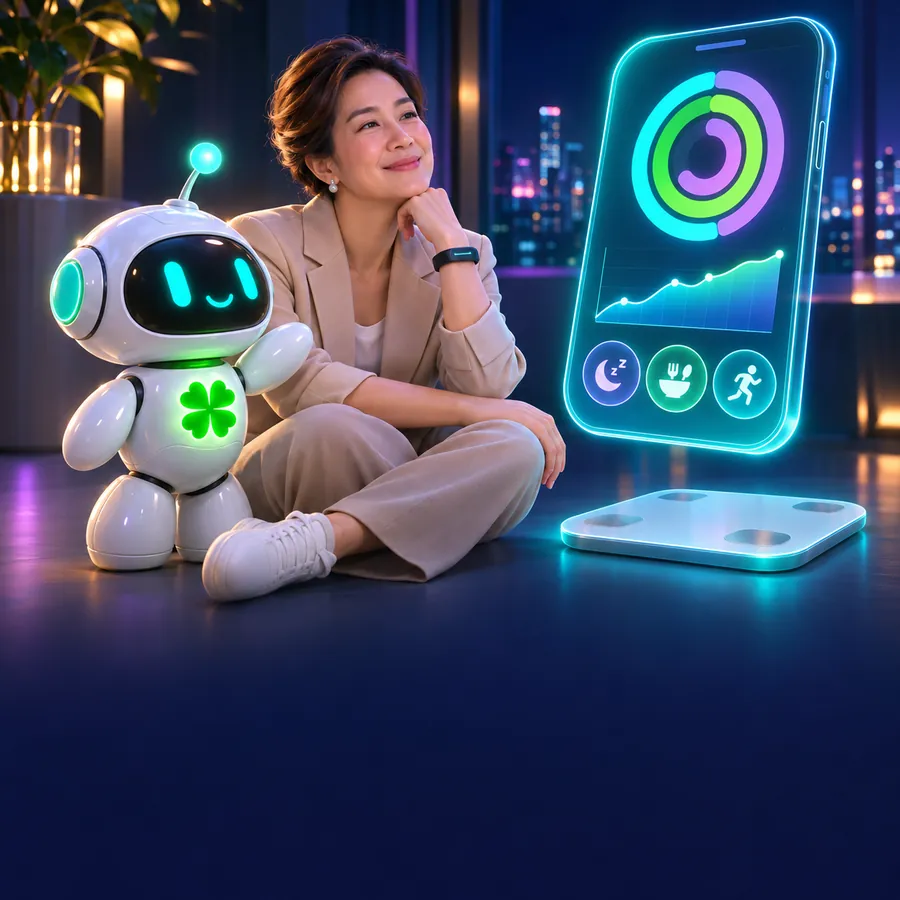
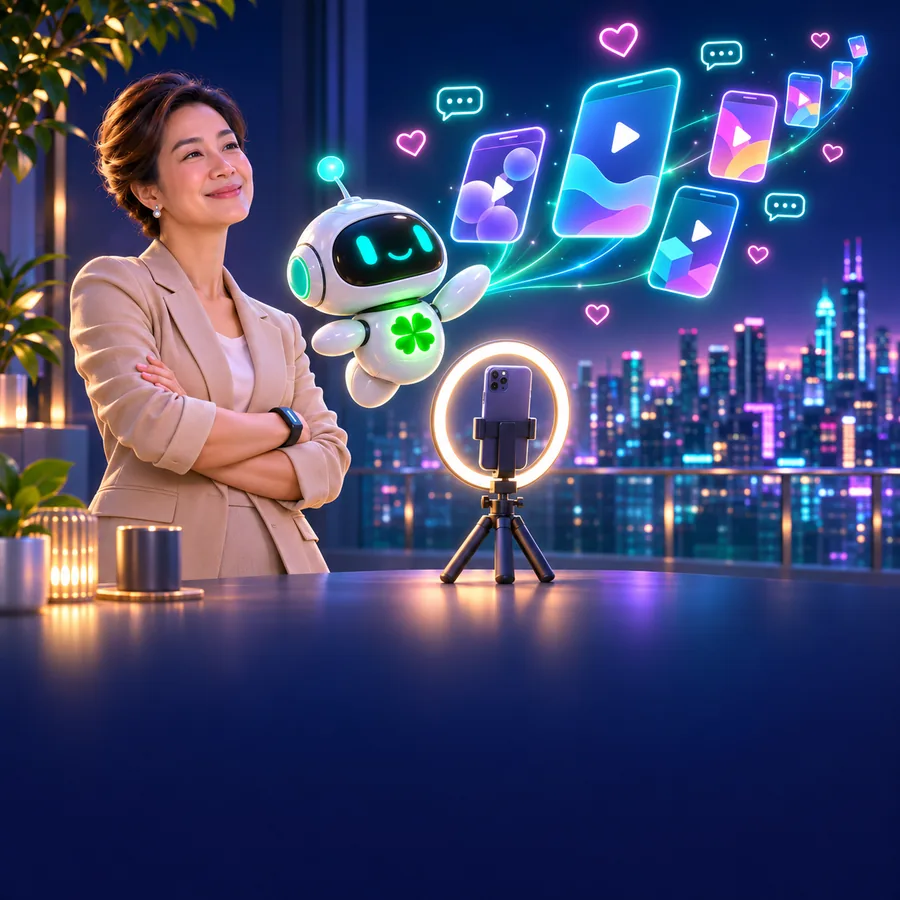
X-VISOR QUEST 3.0 · Clip Edition: cover art, tighter play screen, fixes from playtest
- cover and share image generated for the game (same host and companion robot)
- sheets hide properly once closed; star rating no longer picks up the progress-bar style
- all four moves fit on a phone screen; the screen stays where the thumb is between moves

diff --git a/xvisor/play/game.css b/xvisor/play/game.css
@@ -55,7 +55,7 @@ p{margin:0}
 @keyframes coverIn{from{transform:scale(1.12);opacity:0}}
 .start-copy{display:grid;gap:14px;margin-top:-64px;position:relative}
 .start h1{font-size:clamp(46px,13vw,68px);font-weight:700}
-.lead{font-size:18.5px;color:#d6e2f1}
+.lead{font-size:18.5px;color:#d6e2f1;text-wrap:pretty}
 .how3{list-style:none;margin:2px 0 4px;padding:0;display:grid;gap:8px}
 .how3 li{display:flex;align-items:center;gap:12px;font-weight:600;color:#e9f1fb}
 .how3 b{display:grid;place-items:center;width:44px;height:44px;border-radius:14px;background:rgba(75,232,255,.12);font-size:22px;flex:none}
@@ -74,13 +74,13 @@ p{margin:0}
 .money{appearance:none;cursor:pointer;border:1px solid rgba(230,194,122,.45);background:rgba(230,194,122,.08);color:#fff;border-radius:16px;padding:6px 14px;min-height:48px;text-align:right;display:grid}
 .money small{font-size:11.5px;color:var(--gold-b);line-height:1.2}.money b{font-size:19px;line-height:1.2}
 
-.buddy{display:grid;grid-template-columns:84px 1fr;align-items:end;gap:6px;min-height:104px}
-.bot{width:84px;height:auto;filter:drop-shadow(0 10px 16px rgba(0,0,0,.45));animation:bob 3s ease-in-out infinite;transform-origin:50% 100%}
+.buddy{display:grid;grid-template-columns:72px 1fr;align-items:end;gap:6px;min-height:88px}
+.bot{width:72px;height:auto;filter:drop-shadow(0 10px 16px rgba(0,0,0,.45));animation:bob 3s ease-in-out infinite;transform-origin:50% 100%}
 @keyframes bob{50%{transform:translateY(-7px) rotate(-2deg)}}
 .say{align-self:center;background:#fff;color:#06131c;font-weight:600;font-size:16.5px;line-height:1.45;padding:12px 15px;border-radius:18px 18px 18px 5px;box-shadow:0 10px 26px rgba(0,0,0,.35),0 0 26px rgba(75,232,255,.3);animation:pop .4s cubic-bezier(.3,1.6,.5,1)}
 @keyframes pop{from{transform:scale(.85);opacity:0}}
 
-.stats3{display:grid;grid-template-columns:1.5fr 1fr 1fr;gap:8px}
+.stats3{display:grid;grid-template-columns:1.7fr .9fr .9fr;gap:8px}
 .habit{display:flex;align-items:center;gap:10px;padding:10px 12px}
 .ring{position:relative;width:58px;height:58px;flex:none;display:grid;place-items:center}
 .ring svg{position:absolute;inset:0;transform:rotate(-90deg)}
@@ -90,14 +90,14 @@ p{margin:0}
 .ring.good .fill{stroke:var(--green)}.ring.low .fill{stroke:var(--warn)}
 .ring b{font-size:19px;color:#fff}
 .habit-txt{display:grid;gap:5px;min-width:0}
-.habit-txt b{font-size:14.5px;color:#fff;line-height:1.2}
+.habit-txt b{font-size:14px;color:#fff;line-height:1.2;white-space:nowrap}
 .pill-row{display:flex;gap:5px}
 .pill-row i{position:relative;font-style:normal;font-size:11.5px;color:var(--muted);padding-top:8px;flex:1;text-align:center}
 .pill-row i::before{content:"";position:absolute;left:0;right:0;top:0;height:4px;border-radius:2px;background:rgba(255,255,255,.12)}
 .pill-row u{position:absolute;left:0;top:0;height:4px;width:var(--v);border-radius:2px;background:var(--green)}
 .pill-row i.low{color:var(--warn)}.pill-row i.low u{background:var(--warn)}
 .chip{display:grid;align-content:center;padding:10px 12px;min-width:0}
-.chip small{font-size:12px;color:var(--muted);line-height:1.25}
+.chip small{font-size:11.5px;color:var(--muted);line-height:1.25}
 .chip b{font-size:26px;line-height:1.15;color:#fff}
 .chip em{font-style:normal;font-size:14px;color:var(--green);margin-left:4px}
 .chip.hot{background:rgba(255,111,216,.12)}.chip.hot b{color:#ffd0f1}
@@ -107,11 +107,11 @@ p{margin:0}
 .shelf-head button{appearance:none;border:0;background:none;color:var(--gold-b);font:600 14.5px var(--font);min-height:44px;cursor:pointer;padding:0 0 0 12px}
 .shelf{list-style:none;margin:0 -16px;padding:2px 16px 8px;display:flex;gap:10px;overflow-x:auto;scroll-snap-type:x proximity;scrollbar-width:none}
 .shelf::-webkit-scrollbar{display:none}
-.clip{flex:none;width:92px;aspect-ratio:9/15;border-radius:16px;padding:9px 8px;display:grid;align-content:space-between;justify-items:start;scroll-snap-align:start;position:relative;overflow:hidden;box-shadow:0 0 0 1px rgba(255,255,255,.16) inset,0 14px 24px -14px rgba(0,0,0,.9)}
+.clip{flex:none;width:84px;aspect-ratio:9/12.5;border-radius:16px;padding:8px 8px;display:grid;align-content:space-between;justify-items:start;scroll-snap-align:start;position:relative;overflow:hidden;box-shadow:0 0 0 1px rgba(255,255,255,.16) inset,0 14px 24px -14px rgba(0,0,0,.9)}
 .clip.p0{background:linear-gradient(160deg,#1c4a7a,#0c1a33)}.clip.p1{background:linear-gradient(160deg,#1f6a5a,#0b2028)}
 .clip.p2{background:linear-gradient(160deg,#5a3a8f,#17122f)}.clip.p3{background:linear-gradient(160deg,#7a4a2a,#22140f)}
 .clip.p4{background:linear-gradient(160deg,#7a2f66,#200f24)}
-.clip-ico{font-size:26px;line-height:1}
+.clip-ico{font-size:22px;line-height:1}
 .clip-topic{font-size:12.5px;font-weight:600;color:#fff;line-height:1.25}
 .clip-views{font-size:12px;color:#dfe9f7}
 .stars{color:var(--gold-b);font-size:12px;letter-spacing:1px;white-space:nowrap}
@@ -130,19 +130,21 @@ p{margin:0}
 .moves i.on{background:linear-gradient(90deg,var(--cyan),var(--green));box-shadow:0 0 10px rgba(75,232,255,.6)}
 
 .acts{display:grid;grid-template-columns:1fr 1fr;gap:10px}
-.act{appearance:none;border:0;cursor:pointer;color:#fff;text-align:left;display:grid;gap:8px;padding:14px;min-height:112px;align-content:start;transition:transform .15s,background .2s}
+.act{appearance:none;border:0;cursor:pointer;color:#fff;text-align:left;display:grid;grid-template-columns:44px 1fr;gap:10px;padding:12px;min-height:76px;align-items:center;transition:transform .15s,background .2s}
 .act:active{transform:scale(.96)}
 .act:hover{background:rgba(255,255,255,.09)}
-.act-ico{display:grid;place-items:center;width:46px;height:46px;border-radius:15px;background:rgba(75,232,255,.13);font-size:24px}
+.act-ico{display:grid;place-items:center;width:44px;height:44px;border-radius:14px;background:rgba(75,232,255,.13);font-size:24px}
 .act-txt{display:grid;gap:1px}
-.act b{font-size:17.5px;line-height:1.25}.act small{font-size:13.5px;color:var(--muted);line-height:1.35}
-.act em{position:absolute;top:10px;right:10px;font-style:normal;font-weight:700;font-size:13px;color:#1a1204;background:linear-gradient(135deg,var(--gold-a),var(--gold-b));padding:3px 9px;border-radius:999px}
+.act b{font-size:16.5px;line-height:1.25}.act small{font-size:13px;color:var(--muted);line-height:1.3}
+.act em{position:absolute;top:6px;left:42px;font-style:normal;font-weight:700;font-size:13px;color:#1a1204;background:linear-gradient(135deg,var(--gold-a),var(--gold-b));padding:3px 9px;border-radius:999px}
 .act.off{opacity:.5}
-.act[data-act="shop"]{grid-column:1 / -1;grid-template-columns:46px 1fr;min-height:0;align-items:center}
+.act[data-act="shop"]{grid-column:1 / -1}
 .acts.done .act{opacity:.45}
 .btn.end{margin-top:2px}
+.btn.end.glow{position:sticky;bottom:calc(12px + env(safe-area-inset-bottom));z-index:5}
 
 /* ---------- sheets ---------- */
+.sheet[hidden]{display:none}
 .sheet{position:fixed;inset:0;z-index:20;display:grid;align-items:end;justify-items:center;background:rgba(3,6,14,.72);-webkit-backdrop-filter:blur(8px);backdrop-filter:blur(8px);animation:fade .25s}
 @keyframes fade{from{opacity:0}}
 .sheet-card{width:min(560px,100%);max-height:94svh;overflow:auto;background:#0b1326;border-radius:28px 28px 0 0;padding:24px 18px calc(22px + env(safe-area-inset-bottom));display:grid;gap:14px;animation:rise .4s cubic-bezier(.2,.9,.2,1)}
@@ -166,7 +168,7 @@ p{margin:0}
 .result{display:grid;gap:8px;justify-items:center}
 .big-ico{font-size:56px;line-height:1;animation:pop .5s cubic-bezier(.3,1.8,.5,1)}
 .bigstars .stars{font-size:30px;letter-spacing:4px}
-.why{font-size:17.5px;color:#e6f0ff}
+.why{font-size:17.5px;color:#e6f0ff;text-wrap:pretty}
 .better{margin-top:4px;padding:12px 14px;border-radius:16px;background:rgba(60,240,160,.1);border:1px solid rgba(60,240,160,.35);color:#d9fbe9;font-weight:600;width:100%}
 .better small{display:block;color:var(--green);font-weight:600;font-size:13px}
 .result.risk h2{color:var(--warn)}
@@ -194,8 +196,8 @@ p{margin:0}
 .run li{display:grid;grid-template-columns:1fr auto;gap:2px 10px;align-items:center;animation:rise .5s both;animation-delay:var(--d)}
 .run span{font-size:15px;color:#e6f0ff}
 .run b{font-size:17px;color:#fff;min-width:66px;text-align:right}
-.run i{grid-column:1 / -1;height:10px;border-radius:5px;background:rgba(255,255,255,.08);overflow:hidden;position:relative}
-.run i::after{content:"";position:absolute;inset:0;width:var(--w);border-radius:inherit;background:linear-gradient(90deg,var(--cyan),var(--green));transform-origin:0 50%;animation:grow .9s cubic-bezier(.2,.9,.2,1) both;animation-delay:var(--d)}
+.run li>i{grid-column:1 / -1;height:10px;border-radius:5px;background:rgba(255,255,255,.08);overflow:hidden;position:relative}
+.run li>i::after{content:"";position:absolute;inset:0;width:var(--w);border-radius:inherit;background:linear-gradient(90deg,var(--cyan),var(--green));transform-origin:0 50%;animation:grow .9s cubic-bezier(.2,.9,.2,1) both;animation-delay:var(--d)}
 @keyframes grow{from{transform:scaleX(0)}}
 .people{display:flex;justify-content:space-between;gap:8px;padding:12px 14px;font-size:14.5px;color:var(--muted)}
 .people b{color:#fff;font-size:18px;margin-left:4px}

diff --git a/xvisor/play/game.js b/xvisor/play/game.js
@@ -160,8 +160,8 @@ function playScreen() {
     <div class="acts${done ? ' done' : ''}">
       ${action('clip', '🎬', 'ลงคลิปรีวิว', 'เพิ่มคลิปเข้าคลัง')}
       ${action('reply', '💬', 'ตอบคนทัก', S.dms ? `ตอบได้ ${Math.min(S.dms, G.REPLIES_PER_MOVE)} คน` : 'ยังไม่มีคนทัก', S.dms ? String(S.dms) : '', !S.dms)}
-      ${action('care', '🌿', 'ดูแลตัวเอง', `${PILLAR[low]}ต่ำสุด เติมตรงนี้`)}
-      ${action('teach', '🤝', 'สอนทีมทำคลิป', canTeach ? 'มีคนอยากทำตามพี่' : teamUp ? 'ฝึกทีมให้คลิปดีขึ้น' : S.team.length ? 'ทีมเก่งเต็มที่แล้ว' : `ต้องมีลูกค้า ${G.CUSTOMERS_PER_RECRUIT} คน`, canTeach ? 'ใหม่' : '', !canTeach && !teamUp)}
+      ${action('care', '🌿', 'ดูแลตัวเอง', `เติมเรื่อง${PILLAR[low]}`)}
+      ${action('teach', '🤝', 'สอนทีม', canTeach ? 'มีคนอยากทำคลิปตามพี่' : teamUp ? 'ฝึกให้คลิปของทีมดีขึ้น' : S.team.length ? 'ทีมเก่งเต็มที่แล้ว' : `มีลูกค้า ${G.CUSTOMERS_PER_RECRUIT} คนก่อน`, canTeach ? 'ใหม่' : '', !canTeach && !teamUp)}
       ${showShop ? action('shop', '🛒', 'ปักลิงก์สั่งซื้อ', 'ขายได้ในคลิป ไม่ต้องรอทัก', 'ครั้งเดียว') : ''}
     </div>
 
@@ -199,12 +199,15 @@ function endScreen() {
   countUp(app);
 }
 
+let shown = '';
 function render() {
   if (screen === 'play' && S && S.phase === 'done') screen = 'end';
-  if (screen === 'start' || !S) startScreen();
+  if (screen === 'start' || !S) { screen = 'start'; startScreen(); }
   else if (screen === 'end') endScreen();
   else playScreen();
-  window.scrollTo(0, 0);
+  // stay where the thumb is while playing; only a new screen starts from the top
+  if (shown !== screen + (S ? S.month : 0)) window.scrollTo(0, 0);
+  shown = screen + (S ? S.month : 0);
 }
 
 // ---------- sheets ----------
